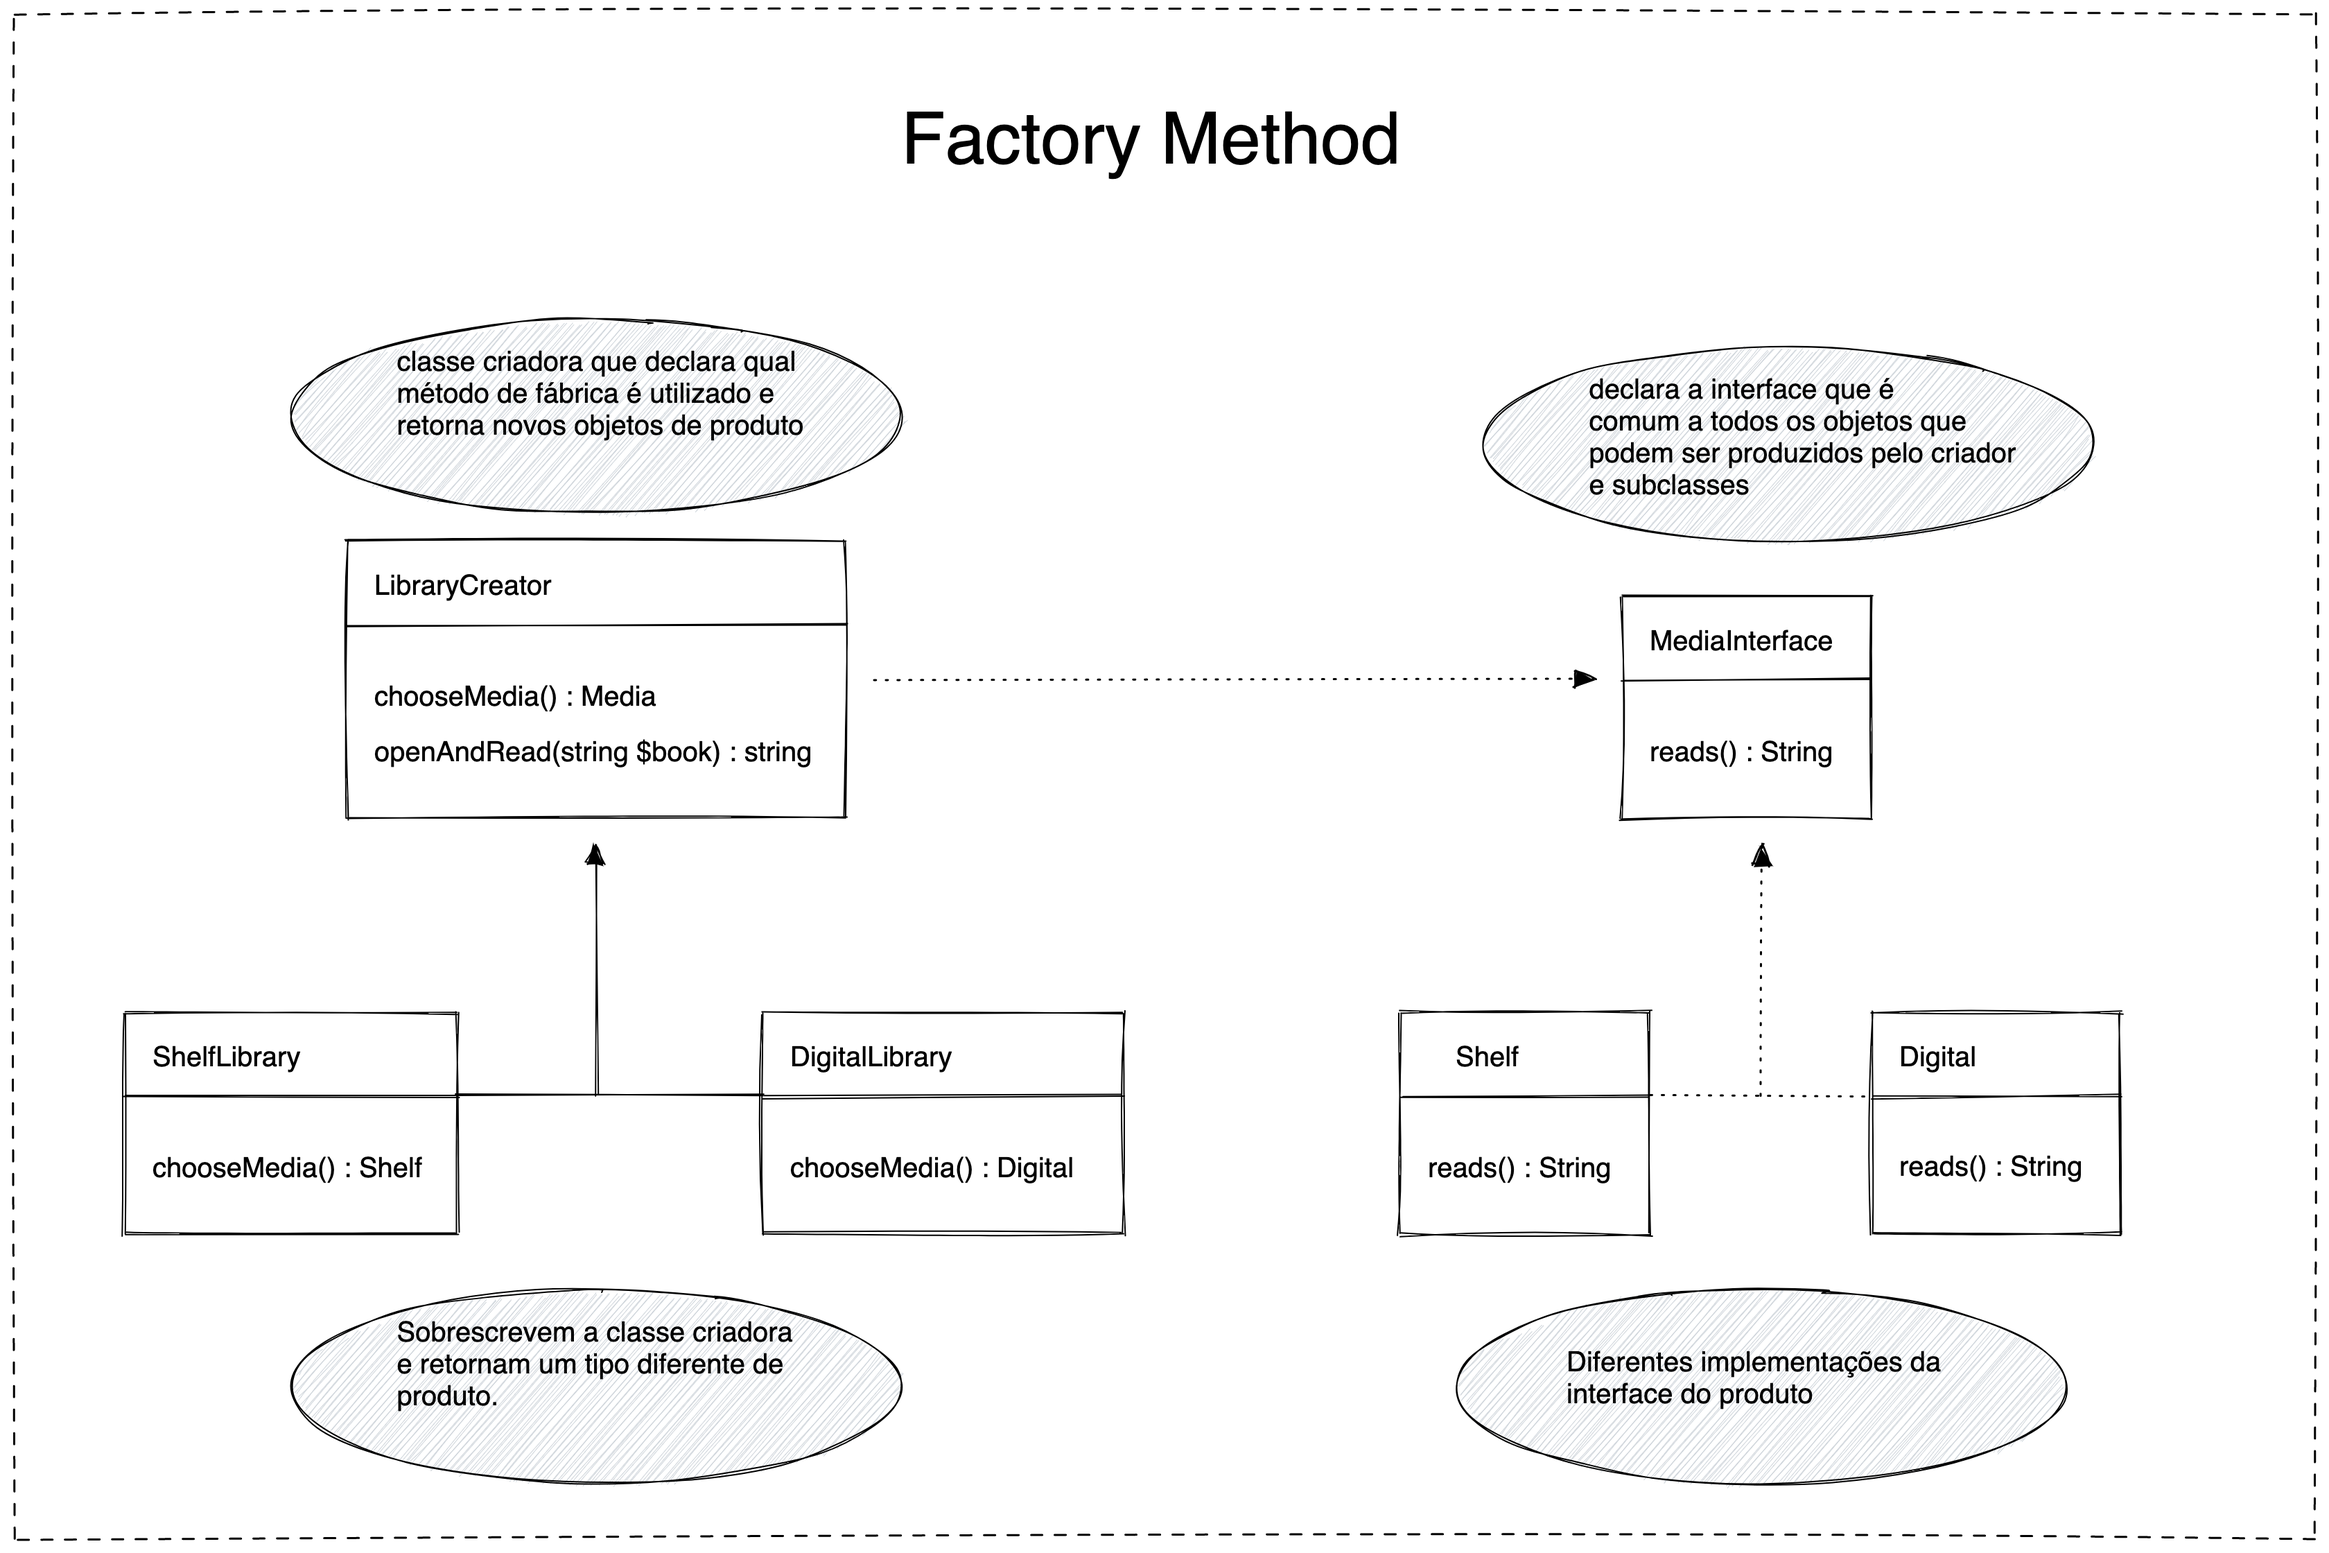
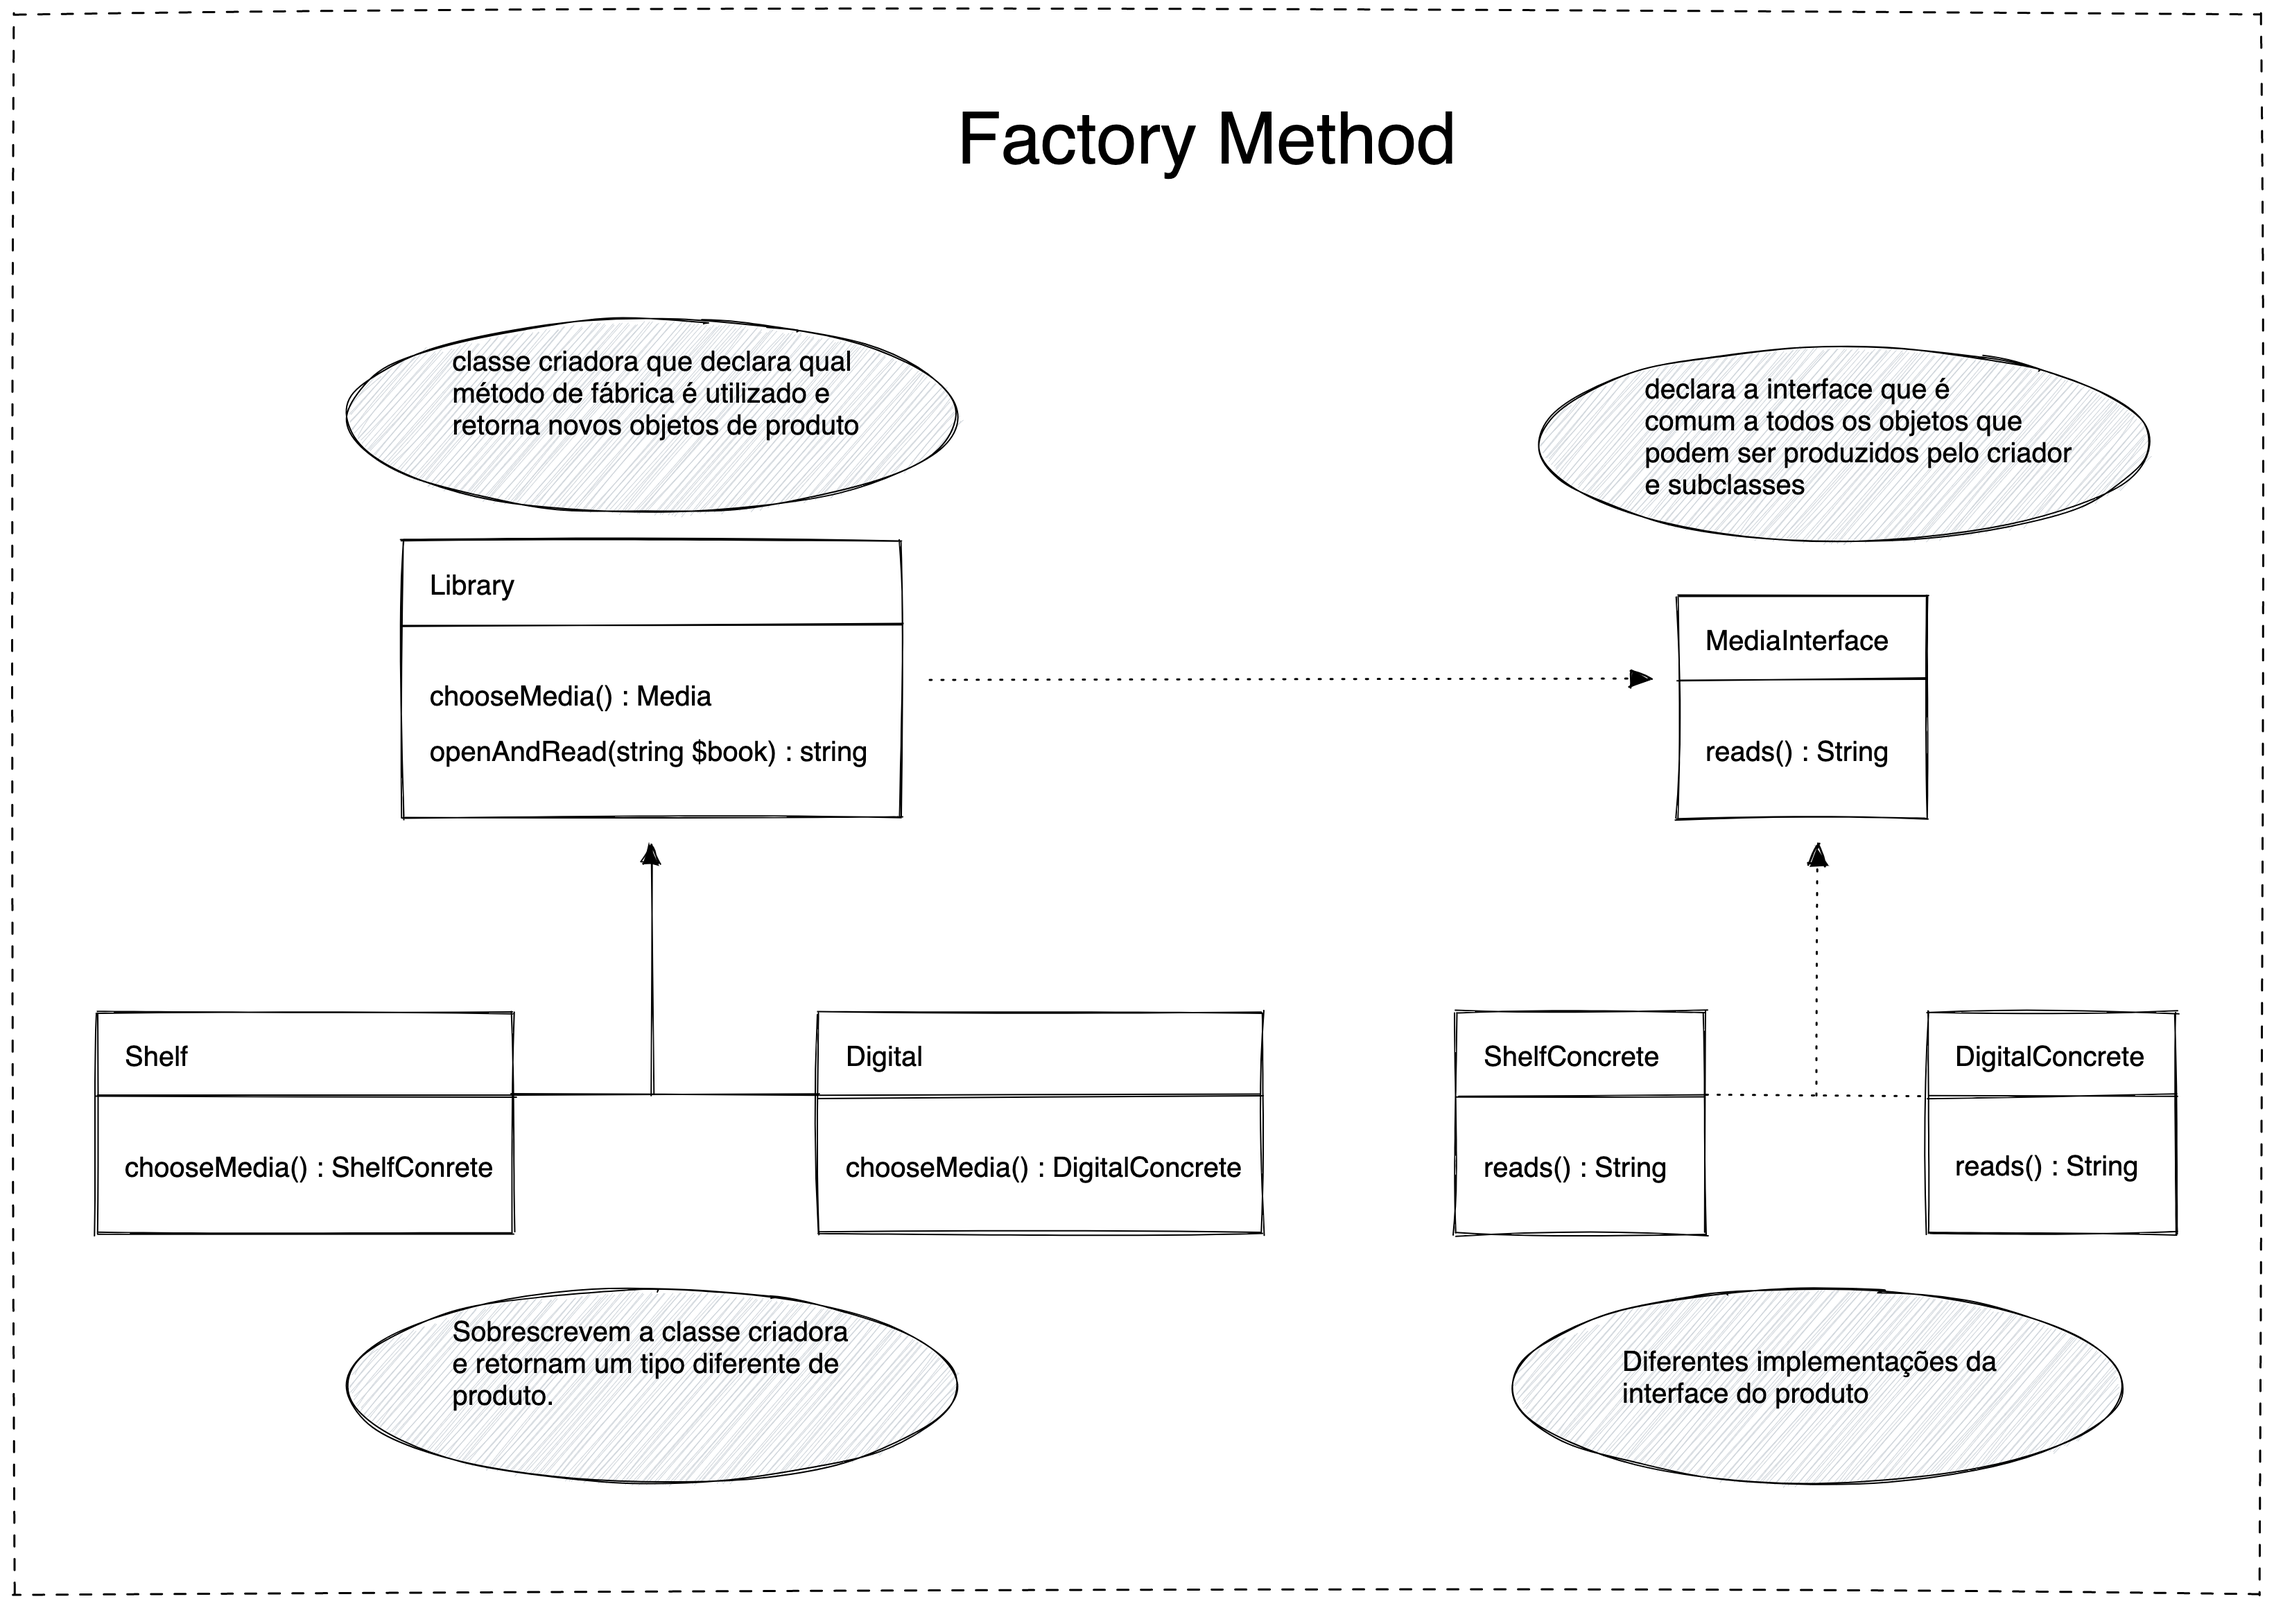
melhorando descricao de factory

diff --git a/criacionais/FactoryMethod/README.md b/criacionais/FactoryMethod/README.md
@@ -2,5 +2,14 @@
 
 Fornece uma interface para criar objetos em uma super classe, permitindo também que subclasses alterem o tipo de objetos criados.
 
+## Situação problema
+Imagine que exista um programa que lê livros. Você, o cliente, tem uma biblioteca com dois tipos de mídia: os livros físicos que se encontram na estante, e os livros digitais que se encontram em um e-book. Os passos para a leitura do livro são os mesmos independente da mídia escolhida. Os passos para leitura são representados por read().
+
+## Aplicação desenvolvida:
+- Client representa a classe que executa o processo de leitura do livro.
+- Client utiliza Library, indicando qual mídia será utilizada.
+- Library utiliza uma interface genérica e executa a acão openAndRead.
+- O metodo openAndRead é obedecido pelas duas mídias, então independente de qual Mídia é chamada, o processo irá funcionar.
+
 Diagrama:
 ![diagrama do factory method](/Fixtures/img/factory.png "Diagrama do Factory Method")
